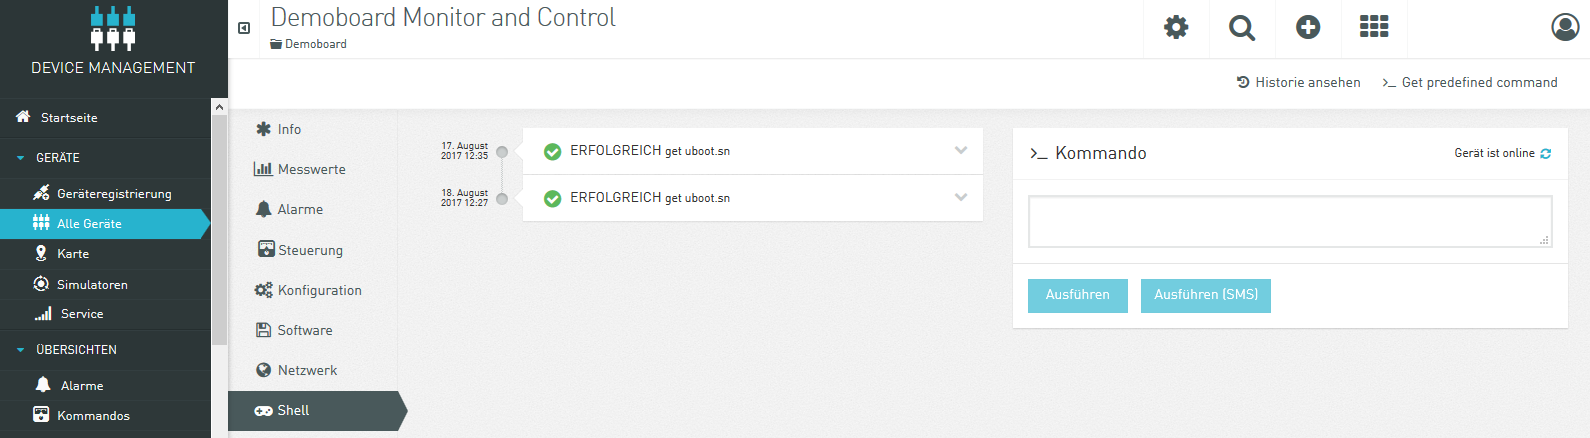
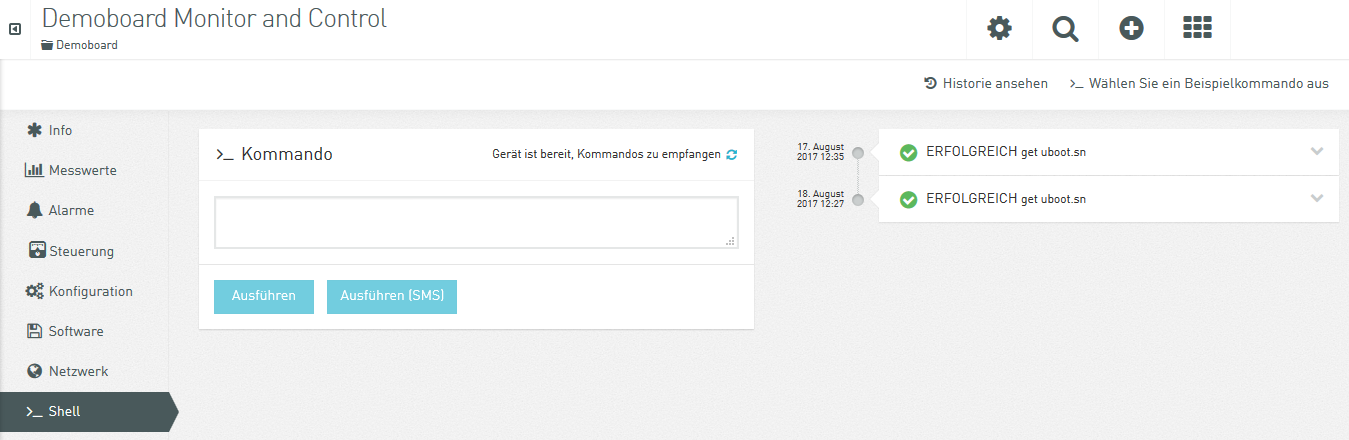
continued update of German User Guide (Device Mgmt) up to section "Sammelkommandos", inserted some more up-to-date German screenshots

diff --git a/src/documents/guides/benutzerhandbuch/device-management-deutsch.html.md b/src/documents/guides/benutzerhandbuch/device-management-deutsch.html.md
@@ -80,7 +80,7 @@ In jedem Fall sehen Sie eine Liste der Geräte, wie im folgenden Beispiel gezeig
 * Ein Symbol für den Verbindungsstatus, wie in der [Verbindungsüberwachung](#connection-monitoring) beschrieben
 * Der Name des Geräts
 * Je nach Browserbreite, Modell und Seriennummer des Gerätes
-* Der Alarmstatus des Gerätes, wie viele kritische, Major-, Minor- oder Warnstufenalarme für das Gerät derzeit nicht gelöst sind. Siehe [Alarme](#alarm-monitoring) für weitere Informationen über das Arbeiten mit Alarmen.
+* Der Alarmstatus des Gerätes, wie viele kritische, wichtige, weniger wichtige oder Warnstufenalarme für das Gerät derzeit nicht gelöst sind. Siehe [Alarme](#alarm-monitoring) für weitere Informationen über das Arbeiten mit Alarmen.
 * Eine Schaltfläche zum Löschen des Gerätes
 
 Das Löschen eines Geräts bedeutet, das Gerät aus der Cumulocity-Datenbank zu entfernen, einschließlich aller damit generierten Daten. Alternativ zum Löschen eines Gerätes können Sie auch alle ausgeschalteten Geräte in eine Gruppe organisieren. Dadurch wird sichergestellt, dass alle alten Berichte korrekt bleiben. Um zu verhindern, dass Alarme für die ausgeschalteten Geräte eingehen, deaktivieren Sie die [Verbindungsüberwachung](#connection-monitoring). Beim Löschen eines Geräts werden die Daten seiner Kindgeräte nicht gelöscht.
@@ -339,7 +339,7 @@ Die Liste zeigt Status, Datum und Text eines Befehls an. Wenn Sie auf einen List
 
 In der Eingabeaufforderung können Sie beliebigen Befehlstext eingeben. Um den Befehlstext an das Gerät zu senden, klicken Sie auf die Schaltfläche "Ausführen". Die Schaltfläche "Ausführen" kann nur gewählt werden, wenn das Gerät online ist.
 
-Um Ihnen mit der Befehlssyntax zu helfen, sind häufig verwendete Befehle für einige Geräte verfügbar, indem Sie auf die Schaltfläche "Beispielkommando erhalten" klicken. Wählen Sie einen Befehl aus und klicken Sie auf "Verwenden", um den Befehl in die Eingabeaufforderung zu kopieren, oder wählen Sie "Ausführen", um den Befehl sofort auszuführen.
+Um Ihnen mit der Befehlssyntax zu helfen, sind häufig verwendete Befehle für einige Geräte verfügbar, indem Sie auf die Schaltfläche "Wählen Sie ein Beispielkommando aus" klicken. Wählen Sie einen Befehl aus und klicken Sie auf "Verwenden", um den Befehl in die Eingabeaufforderung zu kopieren, oder wählen Sie "Ausführen", um den Befehl sofort auszuführen.
 
 ![Shell-Kommandos](/guides/benutzerhandbuch/shelltemplates-de.png)
 
@@ -389,11 +389,11 @@ Dies ist nützlich, wenn Sie nicht funktionsfähige Hardware haben und die Hardw
 
 ## <a name="connection-monitoring"></a>Verbindungsüberwachung
 
-Cumulocity kann die Verbindung zu Ihren Geräten automatisch überwachen. Wenn die Verbindung zu einem Gerät überwacht werden soll, gehen Sie zur Registerkarte "Info" des Geräts. Aktivieren Sie auf dieser Registerkarte das Feld "Erforderliches Intervall" oben. In diesem Feld wird festgelegt, wie oft Sie vom Gerät hören möchten. Wenn Sie beispielsweise "Erforderliches Intervall" auf 60 setzen, erwarten Sie, dass das Gerät mindestens einmal in einer Stunde mit Cumulocity kommuniziert. Das Intervall wird entweder vom Gerät selbst eingestellt, basierend auf dem Wissen des Geräts, wie oft es versucht, Daten zu senden, oder es wird von Ihnen manuell gesetzt.
+Cumulocity kann die Verbindung zu Ihren Geräten automatisch überwachen. Wenn die Verbindung zu einem Gerät überwacht werden soll, gehen Sie zur Registerkarte "Info" des Geräts. Im Feld "Erwartetes Sendeintervall" rechts wird festgelegt, wie oft Sie vom Gerät hören. Wenn Sie beispielsweise "Erwartetes Sendeintervalll" auf 60 setzen, erwarten Sie, dass das Gerät mindestens einmal in einer Stunde mit Cumulocity kommuniziert. Das Intervall wird entweder vom Gerät selbst eingestellt, basierend auf dem Wissen des Geräts, wie oft es versucht, Daten zu senden, oder es wird von Ihnen manuell gesetzt.
 
-Die verschiedenen Anschlusszustände sind auf dem Bild unten dargestellt. Der obere Pfeil repräsentiert Verkehr vom Gerät zu Cumulocity. Er kann grün, rot oder grau sein. Grün bedeutet, dass Daten innerhalb des erforderlichen Intervalls gesendet wurden. Rot bedeutet, dass keine Daten innerhalb des erforderlichen Intervalls gesendet wurden. Grau bedeutet, dass kein erforderliches Intervall konfiguriert ist.
+Die verschiedenen Anschlusszustände sind auf dem Bild unten dargestellt. Der obere Pfeil repräsentiert Verkehr vom Gerät zu Cumulocity. Er kann grün, rot oder grau sein. Grün bedeutet, dass Daten innerhalb des erwarteten Intervalls gesendet wurden. Rot bedeutet, dass keine Daten innerhalb des erwarteten Intervalls gesendet wurden. Grau bedeutet, dass kein Intervall konfiguriert ist.
 
-Der untere Pfeil zeigt den Status der Push-Verbindung an, über die Befehle von Cumulocity an das Gerät gesendet werden (eine Verbindung zum /devicecontrol/notifications API, nicht zum Echtzeit-API). Es kann entweder grün oder grau sein. Grün bedeutet, dass die Verbindung hergestellt ist. Grau bedeutet, dass die Verbindung nicht hergestellt ist. Im Falle eines grauen Pfeils unterstützt das Gerät keine Pushverbindungen, oder es liegt ein Fehler vor.
+Der untere Pfeil zeigt den Status der Push-Verbindung an, über die Befehle von Cumulocity an das Gerät gesendet werden (eine Verbindung zum /devicecontrol/notifications API, nicht zum Echtzeit-API). Es kann entweder grün oder grau sein. Grün bedeutet, dass die Verbindung hergestellt ist. Grau bedeutet, dass die Verbindung nicht hergestellt ist. Im Falle eines grauen Pfeils unterstützt das Gerät keine Push-Verbindungen, oder es liegt ein Fehler vor.
 
 "Wartungsmodus" ist ein spezieller Verbindungsstatus, der anzeigt, dass das Gerät aktuell gewartet wird und nicht überwacht werden soll. Während ein Gerät gewartet wird, werden keine Alarme für dieses Gerät ausgelöst. Sie können den Wartungsmodus aktivieren, indem Sie das erforderliche Intervall auf einen negativen Wert setzen.
 
@@ -412,7 +412,7 @@ Die Serviceüberwachung zeigt an, ob das Gerät in Betrieb ist. Zum Beispiel ist
 
 Cumulocity geht davon aus, dass ein Gerät in Betrieb ist, solange kein kritischer, nicht aufgelöster Alarm für das Gerät vorhanden ist. Dies wird als Zeitanteil angezeigt, für den ein solcher Alarm vorliegt. Wenn ein Gerät keine kritischen Alarme zu irgendeinem Zeitpunkt während eines Zeitraums hatte, war es zu 100 % in Betrieb. Wenn es einige kritische, ungelöste Alarme während der Hälfte der Zeit gab, war das Gerät zu 50 % in Betrieb.
 
-![Service monitoring](/guides/users-guide/servicemonitoringde.png)
+![Service monitoring](/guides/benutzerhandbuch/servicemonitoring-de.png)
 
 Während ein Gerät offline ist, nimmt Cumulocity standardmäßig an, dass das Gerät weiterhin in Betrieb bleibt, wie es war, bevor es die Verbindung verloren hatte. Wenn es zuvor nicht in Betrieb war, geht Cumulocity davon aus, dass das Gerät während eines Verbindungsausfalls außer Betrieb ist.
 
@@ -422,77 +422,77 @@ Cumulocity kann die Verfügbarkeit der Dienste auf der Ebene einzelner Geräte o
 
 ## <a name="map"></a>Der Standort von Geräten
 
-Wenn Sie im Navigator auf "Karte" klicken, wird eine Karte aller Geräte in Ihrem Konto angezeigt. Geräte werden als "Markierungsnadeln" angezeigt, auf die Sie klicken können, um den Namen des Geräts zu erhalten. Wenn Sie auf den Namen des Geräts klicken, gelangen Sie in die Detailansicht des Geräts. Durch Anklicken des Kontrollkästchens "Realtime" wird die Karte automatisch aktualisiert, sobald sich Geräte bewegen.
+Wenn Sie im Navigator auf "Karte" klicken, wird eine Karte aller Geräte in Ihrem Konto angezeigt. Geräte werden als "Markierungsnadeln" angezeigt, auf die Sie klicken können, um den Namen des Geräts zu erhalten. Wenn Sie auf den Namen des Geräts klicken, gelangen Sie in die Detailansicht des Geräts. Durch Anklicken des Kontrollkästchens "Echtzeit" wird die Karte automatisch aktualisiert, sobald sich Geräte bewegen.
 
 ## <a name="alarm-monitoring"></a>Arbeiten mit Alarmen
 
 Geräte können Alarme auslösen, um anzuzeigen, dass ein Problem vorliegt und eine Intervention erforderlich ist. Alarme können an verschiedenen Orten betrachtet werden:
 
-* Durch Klicken auf "Nur ungelöst" im "Alarme"-Tab sehen Sie die Alarme aller Geräte, die noch nicht gelöst wurden.
 * Durch Klicken auf "Alarme" im Navigator wird der gesamte Alarmverlauf angezeigt.
-* Durch Klicken auf ein Gerät und Auswählen der Registerkarte "Alarme", um die Alarme des Geräts zu sehen. Standardmäßig werden nur ungelöste Alarme angezeigt, aber Sie können das "Nur ungelöste" Kontrollkästchen deaktivieren, um alle Alarme anzuzeigen.
+* Durch Deaktivieren der "Nur offene Alarme"-Schaltfläche sehen Sie hier die Alarme aller Geräte, die noch nicht gelöst wurden.
+* Durch Klicken auf ein Gerät und Auswählen der Registerkarte "Alarme" sehen Sie die Alarme dieses Geräts. Standardmäßig werden nur ungelöste Alarme angezeigt, aber Sie können das "Nur offene Alarme" Kontrollkästchen deaktivieren, um alle Alarme anzuzeigen.
 
 Die Alarmanzeige ist in vier Abschnitte unterteilt, die Alarme unterschiedlicher Prioritäten separat auflisten. In jedem Abschnitt wird zuerst der letzte Alarm angezeigt. Das folgende Bild zeigt die Detailanzeige eines Alarms nach dem Anklicken. Die Detailansicht enthält folgende Elemente:
 
-* **Alarm Schweregrad**: Die Schweregrade hierbei sind:
+* **Alarmschweregrad**: Die Schweregrade hierbei sind:
  * **Kritisch**: Das Gerät ist außer Betrieb, und sofortiges Eingreifen ist erforderlich.
- * **Major**: Es gibt ein Problem, welches Aufmerksamkeit erfordert.
- * **Minor**: Ein kleineres Problem ist aufgetreten.
+ * **Wichtig**: Es gibt ein Problem, welches Aufmerksamkeit erfordert.
+ * **Weniger wichtig**: Ein kleineres Problem ist aufgetreten.
  * **Warnung**: Es gibt eine Warnung.
 * **Status**: Der Status des Alarms. Das kann sein:
  * **Aktiv**: Wenn der Alarm ausgelöst wurde und noch niemand daran arbeitet.
  * **Zur Kenntnis genommen**: Wenn jemand die "Zur Kenntnis genommen"-Schaltfläche aktiviert hat.
- * **Aufgelöst**: Wenn entweder jemand auf die Schaltfläche "Löschen" geklickt hat, um einen Alarm manuell zu löschen, oder wenn das Gerät selbst feststellt, dass das Problem nicht mehr besteht.
+ * **Gelöst**: Wenn entweder jemand auf die Schaltfläche "Löschen" geklickt hat, um einen Alarm manuell zu löschen, oder wenn das Gerät selbst feststellt, dass das Problem nicht mehr besteht.
 * **Anzahl**: Die Häufigkeit, mit der dieser Alarm vom Gerät gesendet wurde. Cumulocity dupliziert Alarme, so dass nur ein Alarm eines bestimmten Typs für ein bestimmtes Gerät aktiv sein kann. Wenn ein anderer Alarm des gleichen Typs durch das Gerät gesendet wird, wird die Anzahl erhöht.
 * **Beschreibung**: Eine Textbeschreibung des Alarms.
 * **Gerät**: Der Name des Geräts. Durch Klicken auf den Namen gelangen Sie in die Detailansicht des Geräts.
 * **Datum erstellt**: Der Zeitstempel, als der Alarm zuerst erstellt wurde.
 * **Typ**: Die Art des Alarms. Dieser Text dient zum Duplizieren von Alarmen und zum Konfigurieren der Priorität von Alarmen in der [Administrations-Anwendung](/guides/benutzerhandbuch/administration-deutsch#reprio-alarms).
 * **Zusätzliche Information**: Ein Alarm kann beliebige zusätzliche Informationen enthalten, die vom Gerät bereitgestellt werden.
-* **Audit Protokolle**: Zusammen mit dem Alarm wird ein Protokoll der Änderungen des Alarms gespeichert. Dadurch wird ein Alarmverlauf mit verschiedenen Daten erzeugt.
+* **Änderungsprotokoll**: Zusammen mit dem Alarm wird ein Protokoll der Änderungen des Alarms gespeichert. Dadurch wird ein Alarmverlauf mit verschiedenen Daten erzeugt.
 
-![Alarm display](/guides/users-guide/alarme.png)
+![Alarm display](/guides/benutzerhandbuch/alarme-de.png)
 
-## <a name="operation-monitoring"></a>Arbeiten mit Fernsteuerung
+## <a name="operation-monitoring"></a>Arbeiten mit Kommandos
 
-Fernsteuerungsvorgänge werden für ferngesteuerte Geräte verwendet. Sie können im Navigator auf das Menü "Kommandos" klicken, um alle Vorgänge anzuzeigen, die an ein Gerät gesendet wurden und noch in der Warteschlange stehen, um an ein Gerät gesendet zu werden. Ähnlich können Sie die Registerkarte "Steuerung" eines bestimmten Geräts auswählen, um die Vorgänge dieses Geräts anzuzeigen.
+Kommandos werden zur Fernsteuerung von Geräten verwendet. Klicken Sie im Navigator auf "Kommandos", um alle Kommandos anzuzeigen, die an ein Gerät gesendet wurden und noch in der Warteschlange stehen, um an ein Gerät gesendet zu werden. Ähnlich können Sie die Registerkarte "Steuerung" eines bestimmten Geräts auswählen, um die Kommandos dieses Geräts anzuzeigen.
 
-Vorgänge können sich in diesen Ausführungszuständen befinden:
+Kommandos können sich in diesen Ausführungszuständen befinden:
 
-* **Ausstehend**: Der Vorgang wurde gerade erstellt und wartet darauf, dass das Gerät den Vorgang übernimmt.
-* **In Ausführung**: Die Operation wurde vom Gerät übernommen und wird ausgeführt.
-* **Erfolgreich ausgeführt**: Der Vorgang wurde vom Gerät erfolgreich ausgeführt.
-* **Fehlgeschlagen**: Der Vorgang konnte nicht vom Gerät ausgeführt werden.
+* **Unerledigt**: Das Kommando wurde gerade erstellt und wartet darauf, vom Gerät übernommen zu werden.
+* **Wird ausgeführt**: Das Kommando wurde vom Gerät übernommen und wird ausgeführt.
+* **Erfolgreich**: Das Kommando wurde vom Gerät erfolgreich ausgeführt.
+* **Fehlgeschlagen**: Das Kommando konnte nicht vom Gerät ausgeführt werden.
 
-Wenn Sie auf einen Vorgang klicken, werden die Parameter des Vorgangs angezeigt. Wenn Sie beispielsweise auf einen Konfigurationsvorgang klicken, wird die Konfiguration angezeigt, die an das Gerät gesendet wird. Das Klicken auf einen fehlgeschlagenen Vorgang zeigt den Grund des Fehlers an.
+Wenn Sie auf ein Kommando klicken, werden die Parameter des Kommandos angezeigt. Wenn Sie beispielsweise auf ein Konfigurationskommando klicken, wird die Konfiguration angezeigt, die an das Gerät gesendet wird. Das Klicken auf ein fehlgeschlagenes Kommando zeigt den Grund des Fehlers an.
 
-Die Schaltfläche "Alle" zeigt alle Vorgänge für ein Gerät an, unabhängig davon, ob sie bereits verarbeitet wurden. Das Gerät führt diese Operationen in aufsteigender Zeitreihenfolge auf. Operationen werden streng nach dieser Reihenfolge ausgeführt.
+Die Schaltfläche "Alle" zeigt alle Kommandos für ein Gerät an, unabhängig davon, ob sie bereits verarbeitet wurden. Das Gerät führt diese Kommandos in aufsteigender Zeitreihenfolge auf. Kommandos werden streng nach dieser Reihenfolge ausgeführt.
 
-![Operations](/guides/users-guide/operationsde.png)
+![Operations](/guides/benutzerhandbuch/operations-de.png)
 
-## <a name="bulk-operations"></a>Bulk-Vorgänge
+## <a name="bulk-operations"></a>Sammelkommandos
 
-Zur einfacheren Handhabung von vielen Geräten bietet Cumulocity "Bulk-Vorgänge". Mit "Bulk-Vorgängen" können Sie nun einfach Vorgänge für jedes Gerät in einer Gruppe ausführen.
+Zur einfacheren Handhabung von vielen Geräten bietet Cumulocity "Sammelkommandos". Mit Sammelkommandos können Sie einfach Kommandos für jedes Gerät in einer Gruppe ausführen.
 
-Dazu haben Sie folgende Möglichkeiten:
+Um ein Sammelkommando für eine Gruppe auszuführen, gehen Sie folgendermaßen vor:
 
 - Wählen Sie ein Gerät aus und navigieren Sie zur Registerkarte "Steuerung".
-- Erstellen Sie einen Vorgang.
+- Erstellen Sie ein Kommando.
 - Bewegen Sie den Mauszeiger über den Vorgang, den Sie ausführen möchten.
 - Klicken Sie auf das Zahnrad. 
 - Klicken Sie auf "Ausführen für die ganze Gruppe".
 
 ![Execute bulk operations](/guides/users-guide/executebulkoperations.png)
 
-> Weitere Informationen über Bulk-Vorgänge finden Sie unter [Arbeiten mit Fernsteuerung](#operation-monitoring).
+> Weitere Informationen über Sammelkommandos finden Sie unter [Arbeiten mit Kommandos](#operation-monitoring).
 
-Um den Status und den Fortschritt Ihrer Vorgänge anzuzeigen, klicken Sie einfach auf die gewünschte Gruppe und dann auf "Bulk-Vorgänge".
+Um den Status und den Fortschritt Ihrer Kommandos anzuzeigen, klicken Sie einfach auf die gewünschte Gruppe und dann auf "Sammelkommandos".
 
 ![Bulk operations tab](/guides/users-guide/bulkoperationsde.png)
 
-Auch Bulk-Vorgänge können bearbeitet werden. Um einen Vorgang zu bearbeiten, bewegen Sie den Mauszeiger über den Vorgang und klicken Sie dann auf die blaue Markierungsschaltfläche. Ein neues Fenster wird eingeblendet. Die Werte "Startdatum" und "Verzögerung" können geändert werden. Um die Betriebsdaten zu ändern, klicken Sie auf "Details anzeigen". Wenn Sie fertig sind, klicken Sie auf "Reschedule", um Änderungen zu übernehmen, oder klicken Sie auf "Abbrechen", um Änderungen zu verwerfen.
+Auch Sammelkommandos können bearbeitet werden. Um ein Kommando zu bearbeiten, bewegen Sie den Mauszeiger über das Kommando und klicken Sie dann auf die blaue Markierungsschaltfläche. Ein neues Fenster wird eingeblendet. Die Werte "Startdatum" und "Verzögerung" können geändert werden. Um die Betriebsdaten zu ändern, klicken Sie auf "Details anzeigen". Wenn Sie fertig sind, klicken Sie auf "Reschedule", um Änderungen zu übernehmen, oder klicken Sie auf "Abbrechen", um Änderungen zu verwerfen.
 
-Um Operationen zu löschen, klicken Sie auf die X-Taste.
+Um Kommandos zu löschen, klicken Sie auf die X-Taste.
 
 ## <a name="events-all"></a>Fehlerbehebung bei Geräten
 
